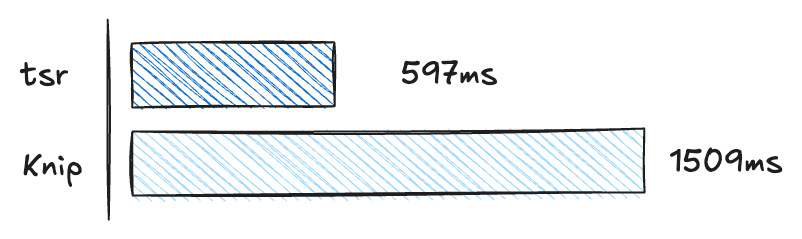
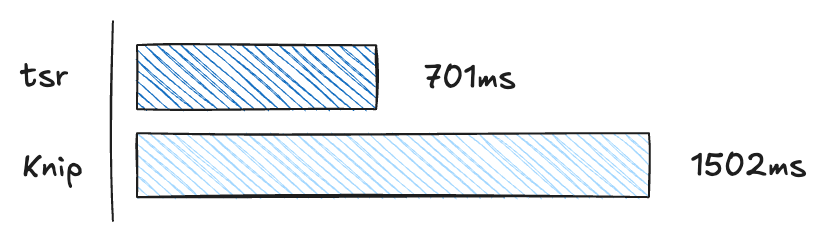
docs: update benchmark

Changed region(s): [[0.0312, 0.0879, 0.9975, 0.9079], [0.4988, 0.2343, 0.6234, 0.3808], [0.0312, 0.2636, 0.0935, 0.3808]]

diff --git a/README.md b/README.md
@@ -218,13 +218,13 @@ tsr's behavior is clear by design. TypeScript is used to detect modules in your 
 
 tsr is designed to be minimal and serve a single purpose. The install size is substantially smaller. Also, tsr is runtime dependent, not relying on `@types/node`.
 
-| tsr   | Knip   |
-| ----- | ------ |
+| tsr  | Knip   |
+| ---- | ------ |
 | 98kB | 5.86MB |
 
 #### Better Performance
 
-Our benchmark shows that tsr is 2.5x faster compared to Knip 🚀 (see `benchmark/vue_core.sh` for details)
+Our benchmark shows that tsr is 2.14x faster compared to Knip 🚀 (see `benchmark/vue_core.sh` for details)
 
 <img width="400" src="./media/comparison.png" alt="benchmark of tsr and Knip" />
 
@@ -234,14 +234,14 @@ tsr provides `---recursive` option which will edit your files until there are no
 
 #### Key Differences
 
-| Feature                  | tsr                            | Knip                                       |
-| ------------------------ | ------------------------------ | ------------------------------------------ |
-| **Automatic Editing**    | ✅ Comprehensive               | Limited                                    |
-| **Zero Configuration**   | ✅ Works with `tsconfig.json`  | Requires a config file for correct results |
-| **Predictable Behavior** | ✅ TypeScript-based logic      | Assumptions for project structure          |
+| Feature                  | tsr                           | Knip                                       |
+| ------------------------ | ----------------------------- | ------------------------------------------ |
+| **Automatic Editing**    | ✅ Comprehensive              | Limited                                    |
+| **Zero Configuration**   | ✅ Works with `tsconfig.json` | Requires a config file for correct results |
+| **Predictable Behavior** | ✅ TypeScript-based logic     | Assumptions for project structure          |
 | **Install Size**         | ✅ 98kB, minimal dependencies | 5.86MB, requires `@types/node`             |
-| **Performance**          | ✅ 2.5x faster                 |                                            |
-| **Recursive Editing**    | ✅ `--recursive` option        |                                            |
+| **Performance**          | ✅ 2.14x faster               |                                            |
+| **Recursive Editing**    | ✅ `--recursive` option       |                                            |
 
 ## Examples
 
